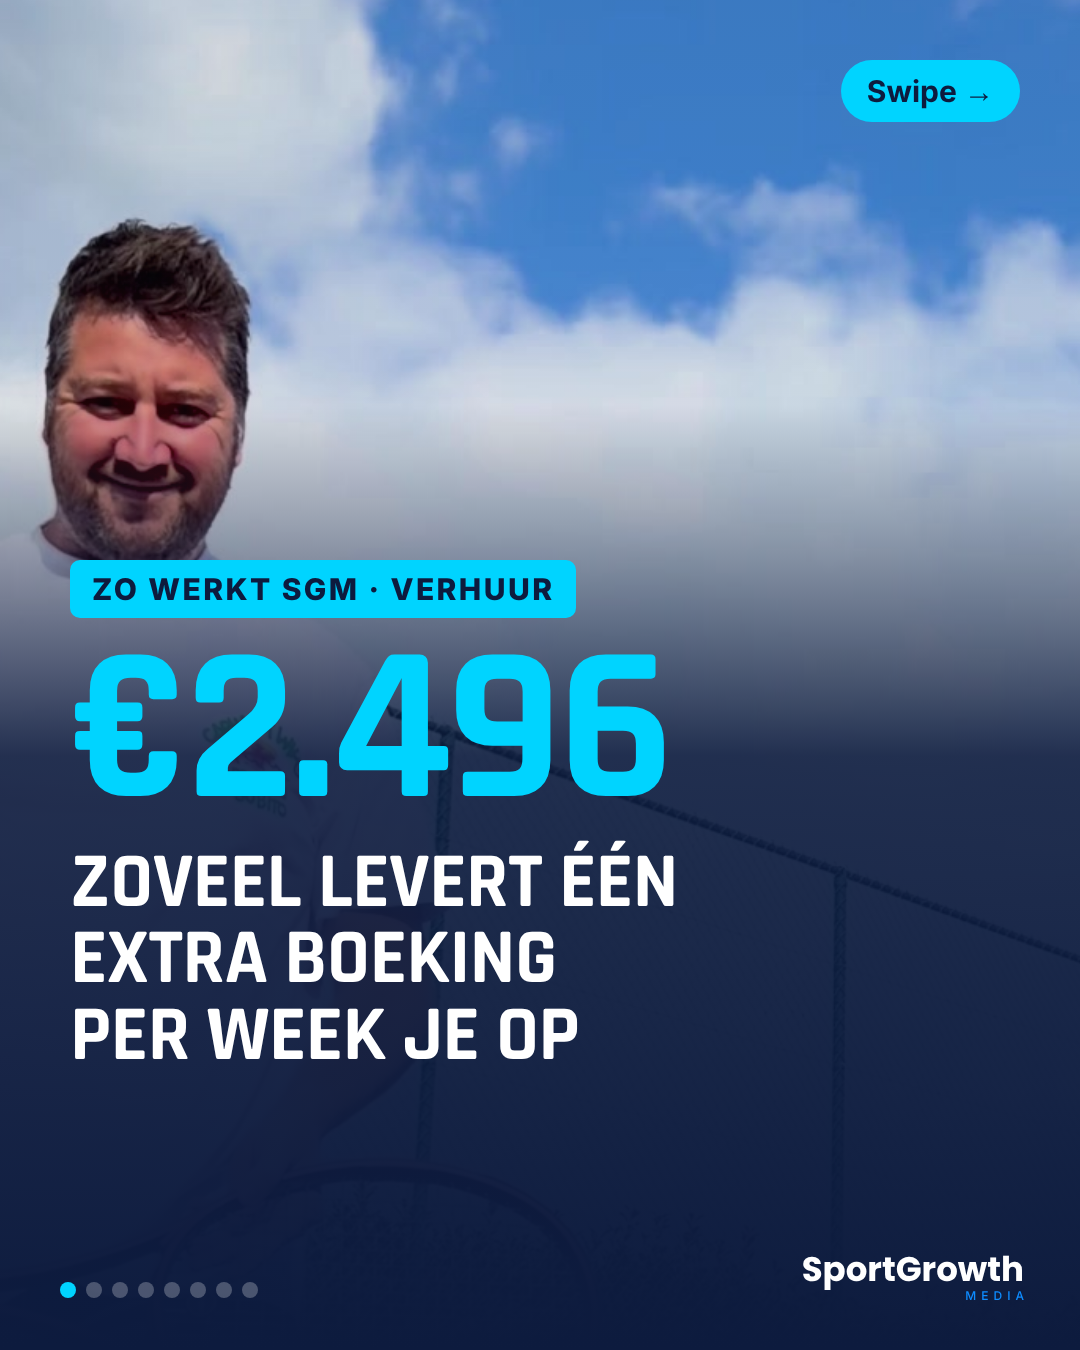
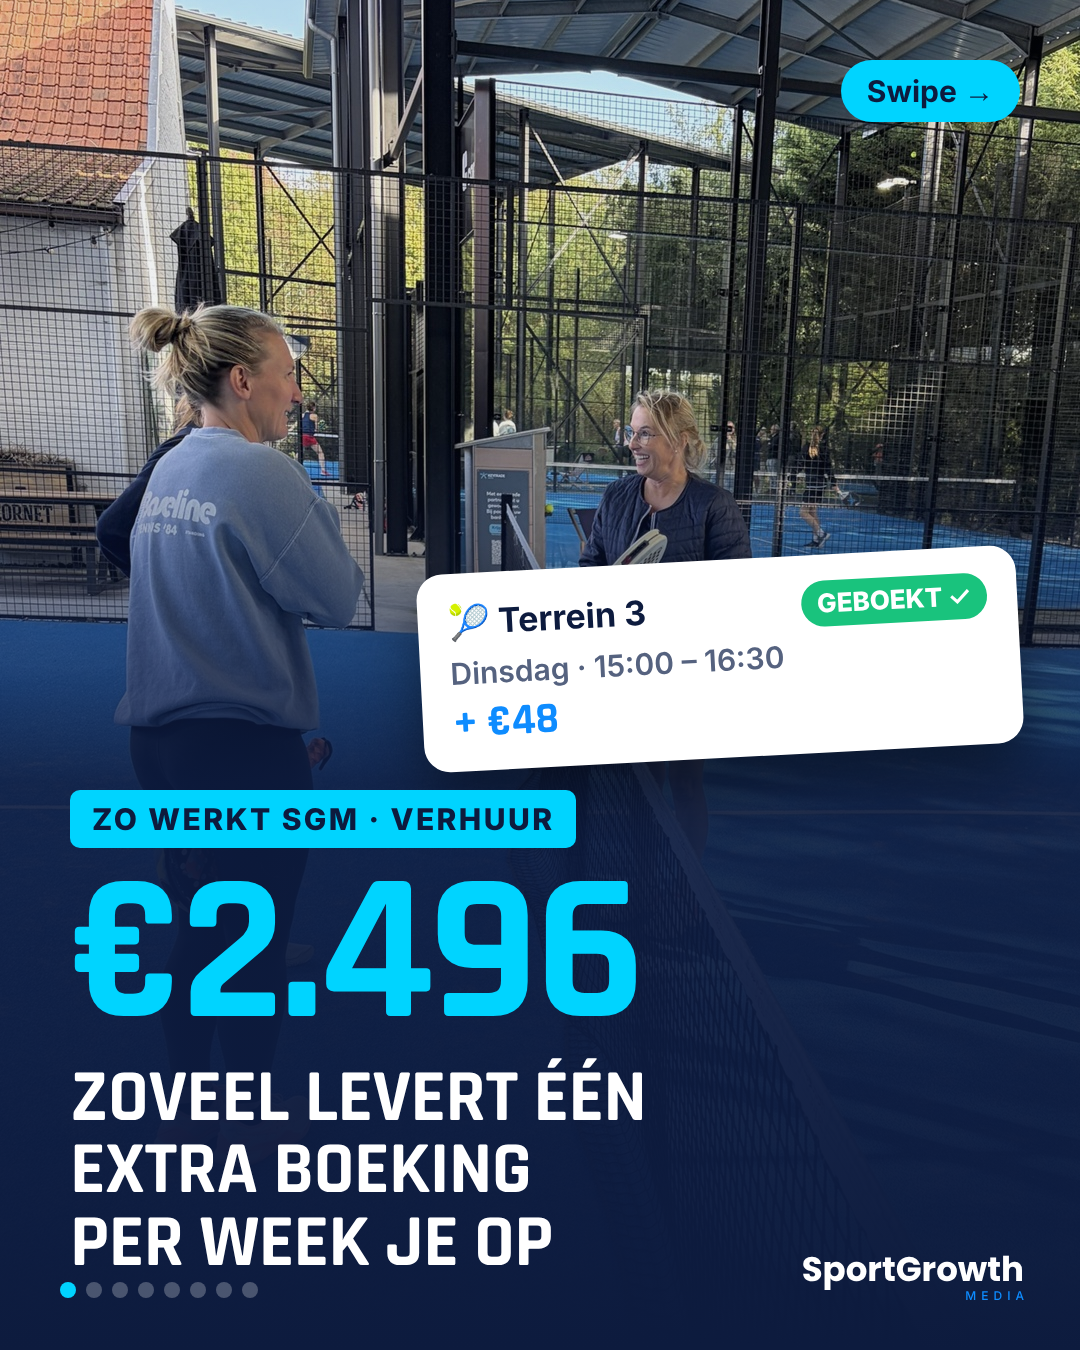
Carrousel extra boeking: nieuwe cover (speelsters + boekingskaart)
Claude-Session: https://claude.ai/code/session_01QkSWZzWLTduRQtPp2zathG

diff --git a/instagram/carrousel-extra-uur/build.js b/instagram/carrousel-extra-uur/build.js
@@ -38,15 +38,20 @@ const page = (n, inner) => `<section class="s" id="s${n}">${inner}
 
 const S = [];
 const B2 = B;
-// 1 COVER
+// 1 COVER · speelsters aan het net + boekingskaart "GEBOEKT"
 S.push(page(1, `
-<div class="bg" style="background-image:${i64(B2 + '/jari-tennis-lacht.jpg')};background-size:1700px auto;background-position:-40px -560px"></div>
-<div class="dim" style="background:linear-gradient(180deg,rgba(13,27,62,.15) 0%,rgba(13,27,62,.1) 30%,rgba(13,27,62,.9) 56%,#0d1b3e 100%)"></div>
+<div class="bg" style="background-image:${i64(B2 + '/padel-lachen-aan-net.jpg')};background-size:1080px auto;background-position:center -120px"></div>
+<div class="dim" style="background:linear-gradient(180deg,rgba(13,27,62,.1) 0%,rgba(13,27,62,.05) 30%,rgba(13,27,62,.9) 58%,#0d1b3e 100%)"></div>
 <div class="swipe">Swipe →</div>
-<div class="col" style="top:560px;gap:20px">
+<div style="position:absolute;left:420px;right:60px;top:560px;background:#fff;color:#0d1b3e;border-radius:26px;padding:26px 30px;box-shadow:0 24px 60px rgba(0,0,0,.45);transform:rotate(-3deg);display:flex;flex-direction:column;gap:10px">
+<div style="display:flex;justify-content:space-between;align-items:center"><span style="font:700 34px/1 In">🎾 Terrein 3</span><span style="background:#19c37d;color:#fff;font:800 26px/1 In;padding:10px 16px;border-radius:30px">GEBOEKT ✓</span></div>
+<div style="font:600 30px/1.2 In;color:#55627f">Dinsdag · 15:00 – 16:30</div>
+<div style="font:700 44px/1 Rj;color:#0e8cff">+ €48</div>
+</div>
+<div class="col" style="top:790px;gap:18px">
 <span class="tag">ZO WERKT SGM · VERHUUR</span>
-<div style="font:700 220px/.85 Rj;color:#00d4ff;letter-spacing:-4px">€2.496</div>
-<h1 style="font-size:78px;line-height:.98">Zoveel levert één<br>extra boeking<br>per week je op</h1>
+<div style="font:700 210px/.85 Rj;color:#00d4ff;letter-spacing:-4px">€2.496</div>
+<h1 style="font-size:74px;line-height:.98">Zoveel levert één<br>extra boeking<br>per week je op</h1>
 </div>`));
 // 2 HERKENNING · leeg terrein, foto vol beeld
 S.push(page(2, `
@@ -86,7 +91,7 @@ S.push(page(4, `
 <span style="font:700 150px/.9 Rj;color:#00d4ff">€9.984</span><span style="font:600 38px/1.2 In">per jaar.<br>Zonder te bouwen.</span></div>`));
 // 5 LESSEN · foto + chips
 S.push(page(5, `
-<div class="bg" style="background-image:${i64(B2 + '/padel-lachen-aan-net.jpg')};background-position:center 30%"></div>
+<div class="bg" style="background-image:${i64(B2 + '/tennis-hal-speler.jpg')};background-position:center 40%"></div>
 <div class="dim" style="background:linear-gradient(180deg,rgba(13,27,62,.1) 0%,rgba(13,27,62,.15) 35%,rgba(13,27,62,.92) 58%,#0d1b3e 100%)"></div>
 <div class="col" style="top:660px;gap:22px">
 <h2 style="font-size:88px">Geef je <span class="c">lessen?</span></h2>

diff --git a/instagram/carrousel-extra-uur/README.md b/instagram/carrousel-extra-uur/README.md
@@ -1,3 +1,3 @@
 # Carrousel ma 9/11 · "Zoveel levert één extra geboekt uur per week je op" (ZO WERKT SGM · VERHUUR)
-`node build.js` → slide01-08.png (1080x1350). Caption: caption.txt. Cover: jari-tennis-lacht.jpg (gezicht + cijfer, zie statistieken.md).
+`node build.js` → slide01-08.png (1080x1350). Caption: caption.txt. Cover: padel-lachen-aan-net.jpg + boekingskaart "GEBOEKT" + €2.496 (Jari vond de cover met zijn foto niet passend).
 Rekenvoorbeeld (prijs Jari 6/11: 1u30 = €48-52): €48 per boeking (4 × €12), 52 weken = €2.496. Lessen (prijs Jari): per groep 3 lessen €290, 4 lessen €380 (lessen van 1u30, per maand). €95 per les × ±35 lesweken (zonder schoolvakanties) = €3.325. Mini €249/maand = ±€57/week ≈ 1,2 boeking.
